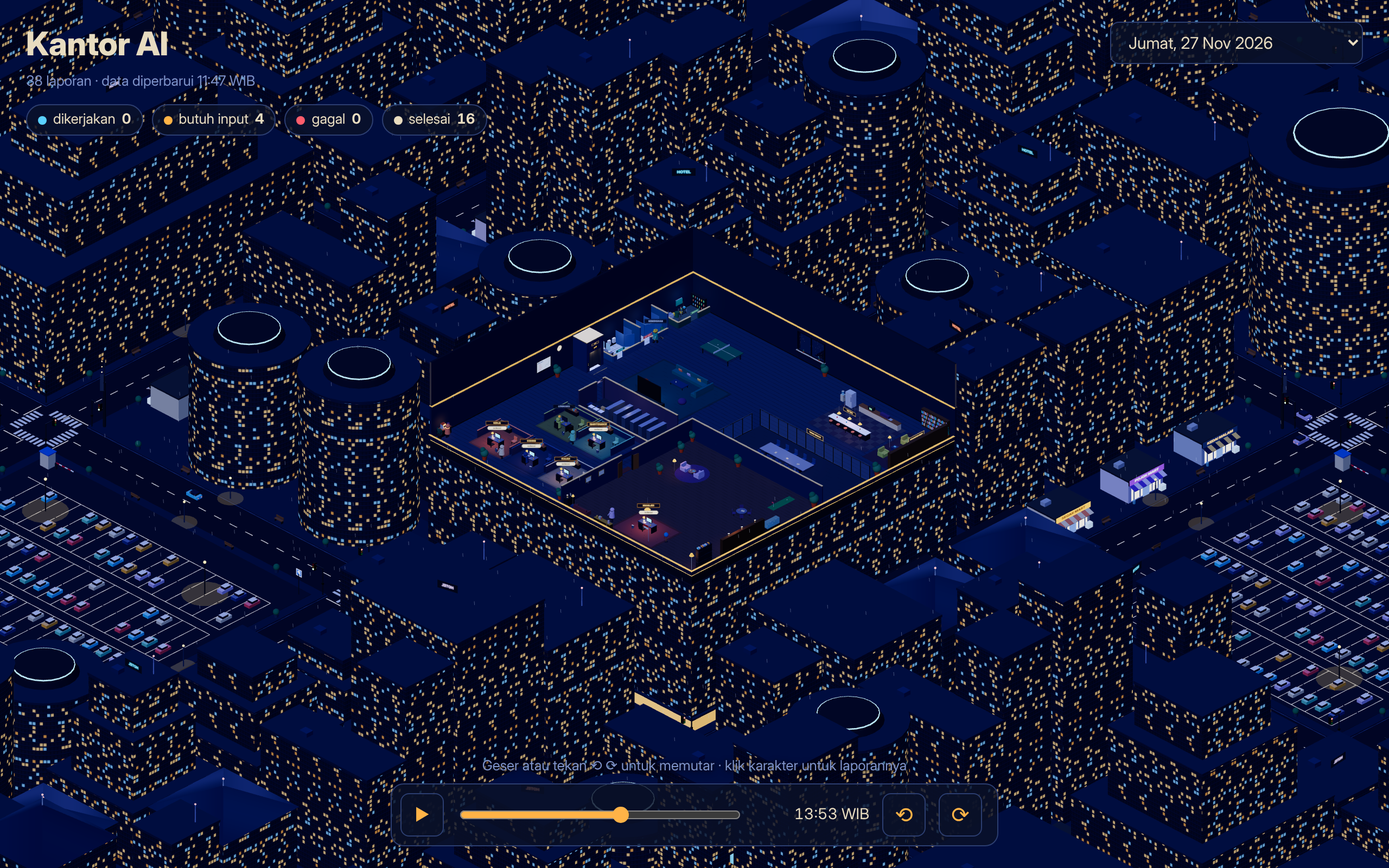
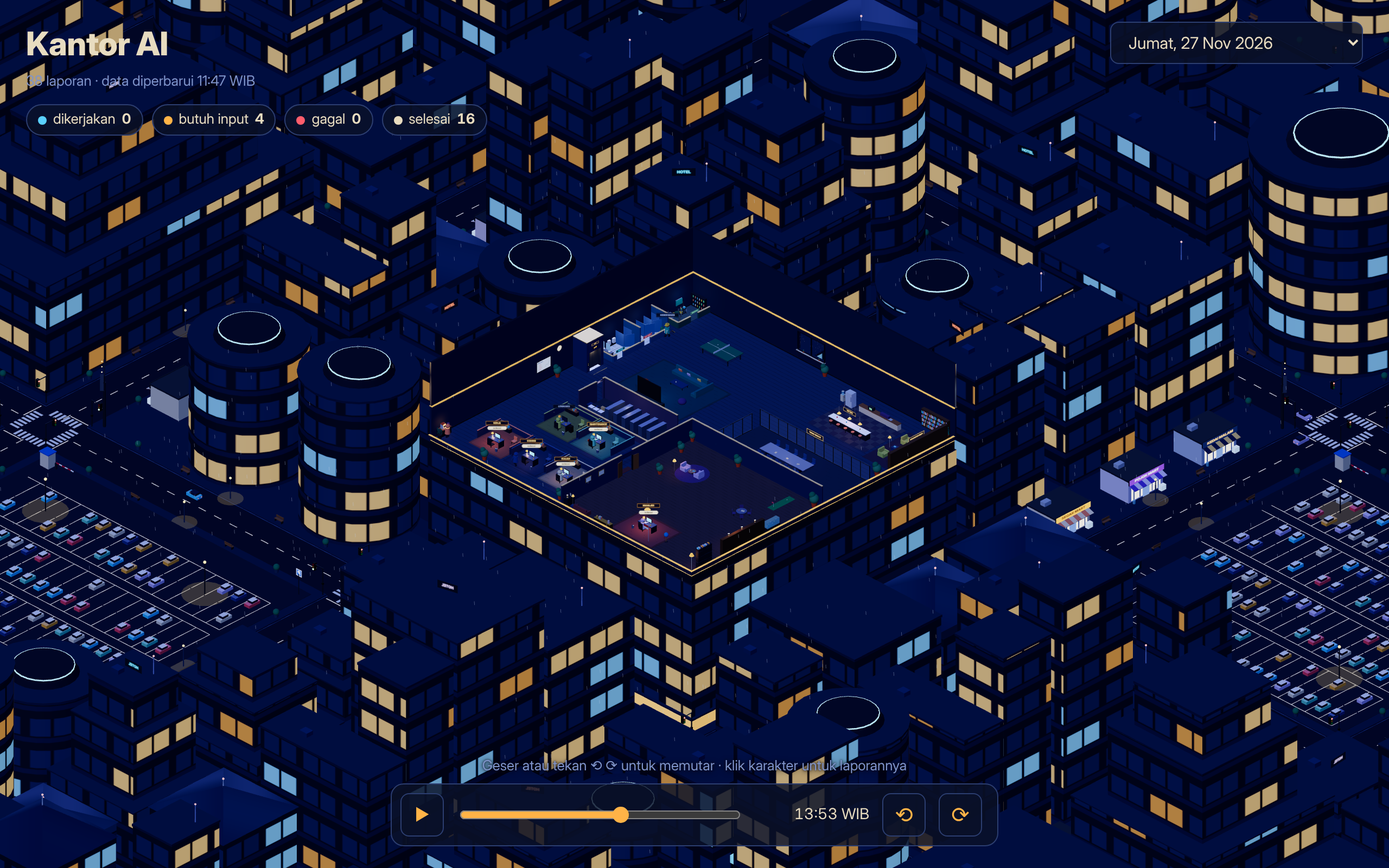
Kantor 3D: jendela gedung kota seukuran jendela kantor
Claude-Session: https://claude.ai/code/session_01TC1644zEPKkg35o3o8SKGe

diff --git a/kantor/app.js b/kantor/app.js
@@ -122,17 +122,17 @@ function teksturFasad(benih, kolom = 8, baris = 24) {
       g.fillStyle = '#16204a'; g.fillRect(0, b * 40 + 34, w, 6); // pelat lantai
       for (let k = 0; k < kolom; k++) {
         const n = r();
-        g.fillStyle = n < 0.12 ? '#e9c27a' : n < 0.17 ? '#7fc0e6' : n < 0.2 ? '#d99a4a' : '#121a3a';
-        g.fillRect(k * 32 + 4, b * 40 + 6, 24, 26);
+        g.fillStyle = n < 0.22 ? '#e9c27a' : n < 0.32 ? '#7fc0e6' : n < 0.38 ? '#d99a4a' : '#1f2c5c'; // jendela besar: lebih banyak yang menyala
+        g.fillRect(k * 32 + 3, b * 40 + 10, 26, 22); g.fillStyle = '#0a1028'; g.fillRect(k * 32 + 15, b * 40 + 10, 2, 22); // proporsi jendela kantor: lebar 6, tinggi 2.8 per lantai 5
       }
     }
   });
 }
 const FASAD = [11, 23, 37].map((b) => teksturFasad(b));
-/** Material fasad dengan pengulangan sesuai ukuran (1 jendela ≈ 0.9 x 1.25 satuan). */
+/** Material fasad dengan pengulangan sesuai ukuran (1 jendela ≈ 6 x 2.8 satuan, satu lantai 5 satuan, sama dengan jendela kantor). */
 function matFasad(i, w, h) {
   const t = FASAD[i % FASAD.length].clone(); t.needsUpdate = true;
-  t.wrapS = t.wrapT = THREE.RepeatWrapping; t.repeat.set(w / 4, h / 16);
+  t.wrapS = t.wrapT = THREE.RepeatWrapping; t.repeat.set(w / 60, h / 120);
   return new THREE.MeshStandardMaterial({ color: 0x8a96c0, map: t, emissive: 0xffffff, emissiveMap: t, emissiveIntensity: 0.4, roughness: 0.6 });
 }
 const lampuAtap = []; // lampu merah di puncak gedung yang berkedip
